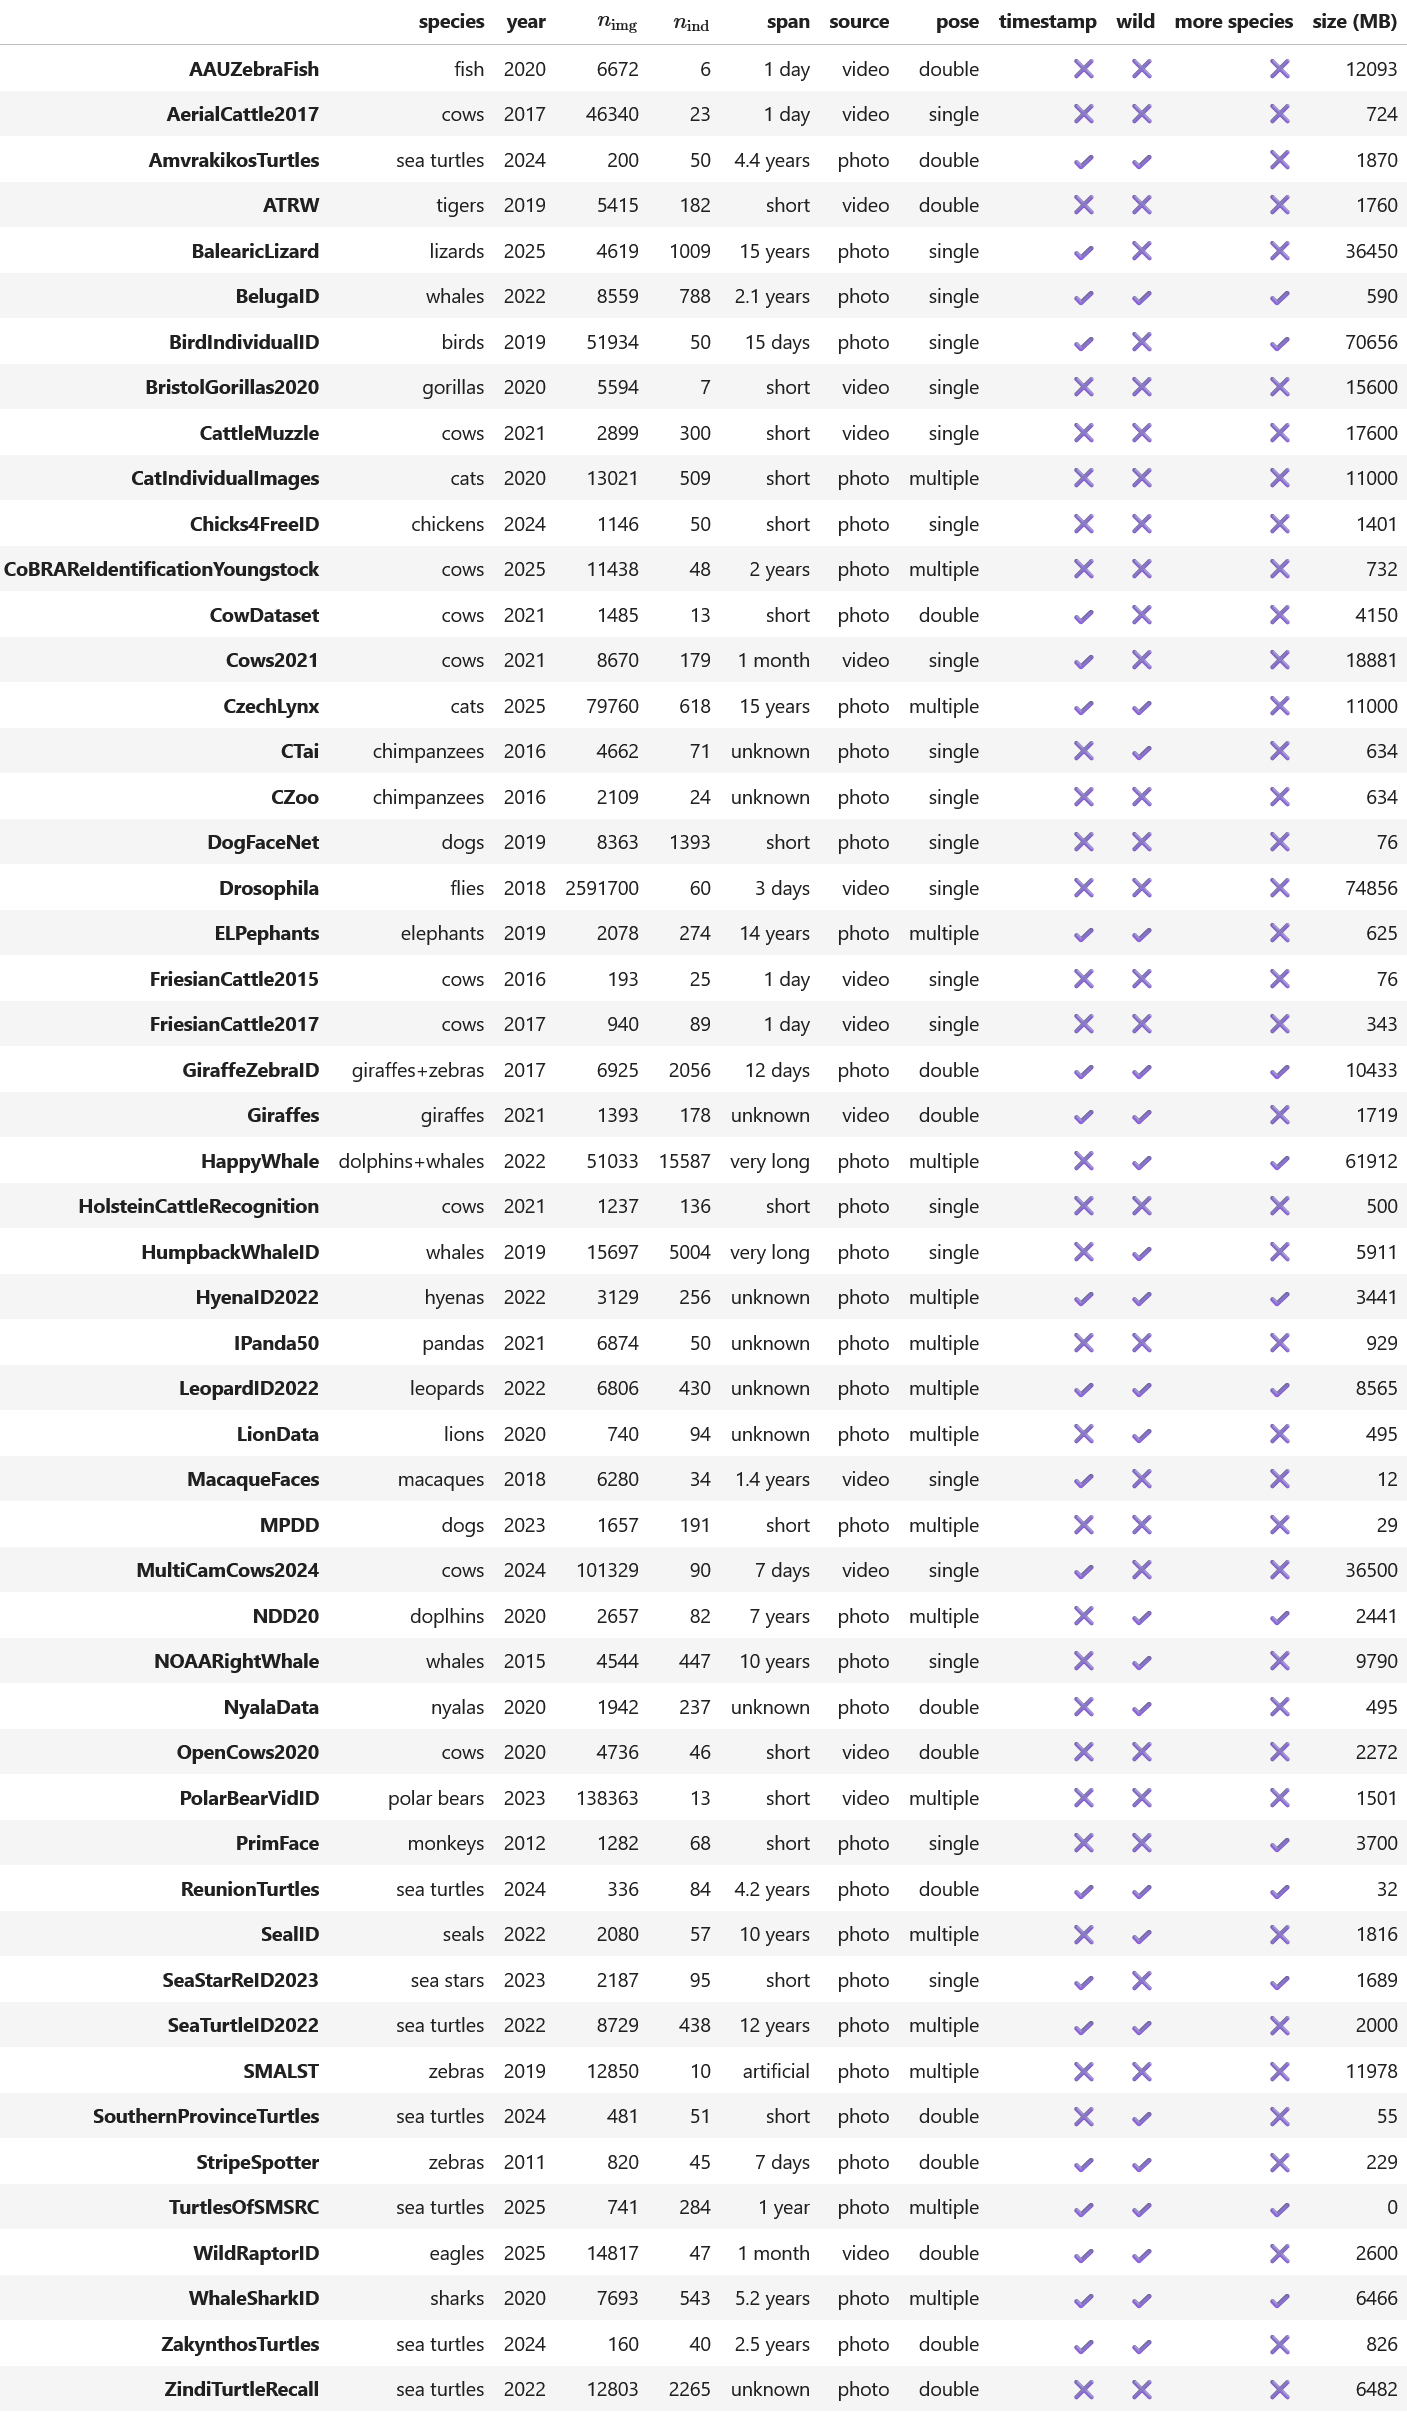
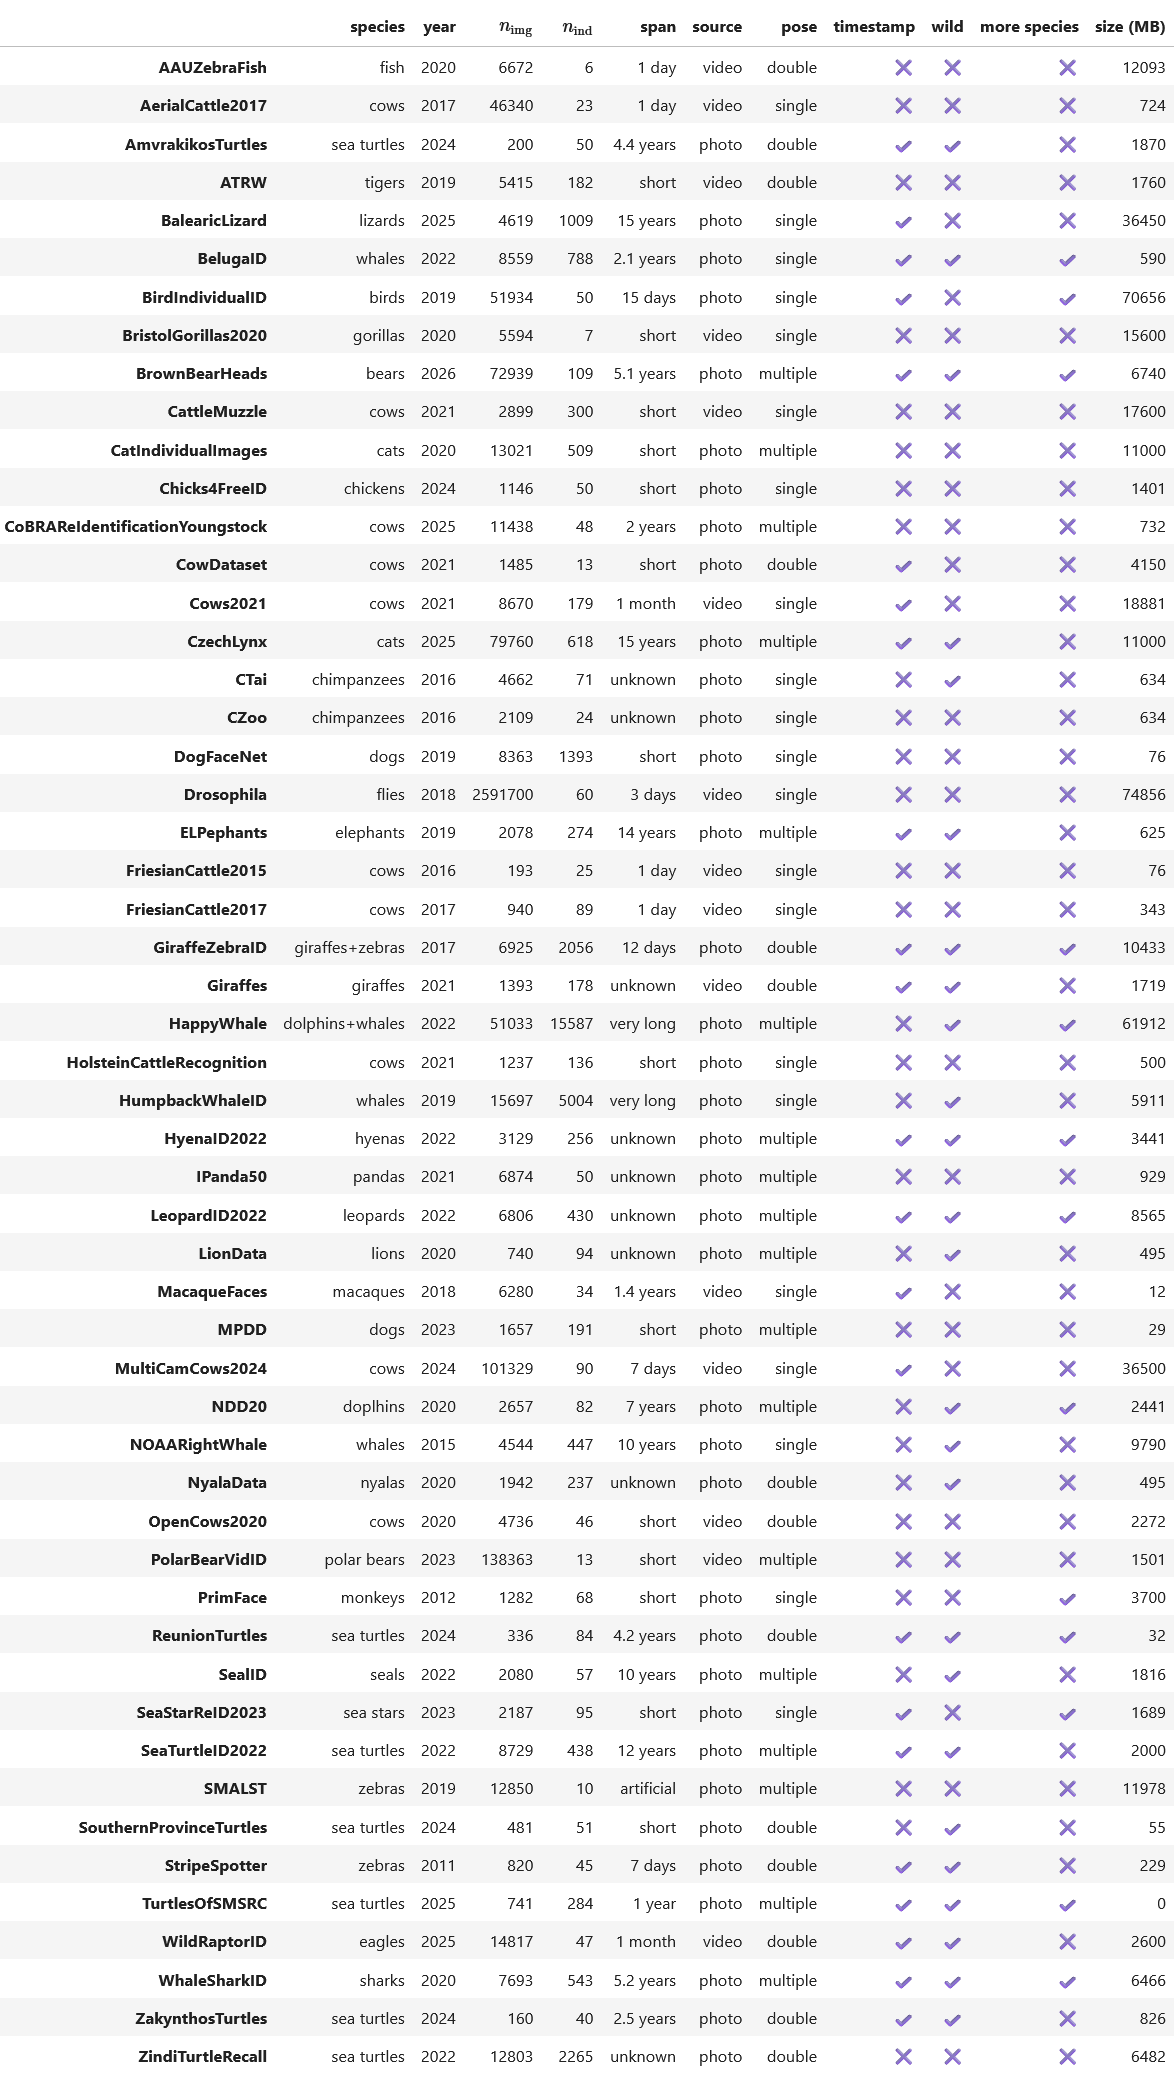
Updated readme

diff --git a/docs/index.md b/docs/index.md
@@ -2,7 +2,7 @@ This website contains the documentation for the [WildlifeDatasets](https://githu
 
 The aim of the project is to provide comprehensive overview of datasets for wildlife individual re-identification and an easy-to-use package for developers of machine learning methods. The core functionality includes:
 
-- overview of 52 publicly available wildlife re-identification datasets and 3 metadatasets.
+- overview of 53 publicly available wildlife re-identification datasets and 3 metadatasets.
 - utilities to mass download and convert them into a unified format and fix some wrong labels.
 - used for training our models [MegaDescriptor](./megadescriptor.md) and [WildFusion](./wildfusion.md).
 - synergy with [WildlifeTools](https://github.com/WildlifeDatasets/wildlife-tools) used for training ML models.

diff --git a/README.md b/README.md
@@ -35,7 +35,7 @@
 
 The aim of the project is to provide a comprehensive overview of datasets for wildlife individual re-identification and an easy-to-use package for developers of machine learning methods. The core functionality includes:
 
-- overview of 52 publicly available wildlife re-identification datasets and 3 metadatasets.
+- overview of 53 publicly available wildlife re-identification datasets and 3 metadatasets.
 - utilities to mass download and convert them into a unified format and fix some wrong labels.
 - used for training our models [MegaDescriptor](./megadescriptor.md) and [WildFusion](./wildfusion.md).
 - synergy with [WildlifeTools](https://github.com/WildlifeDatasets/wildlife-tools) used for training ML models.
